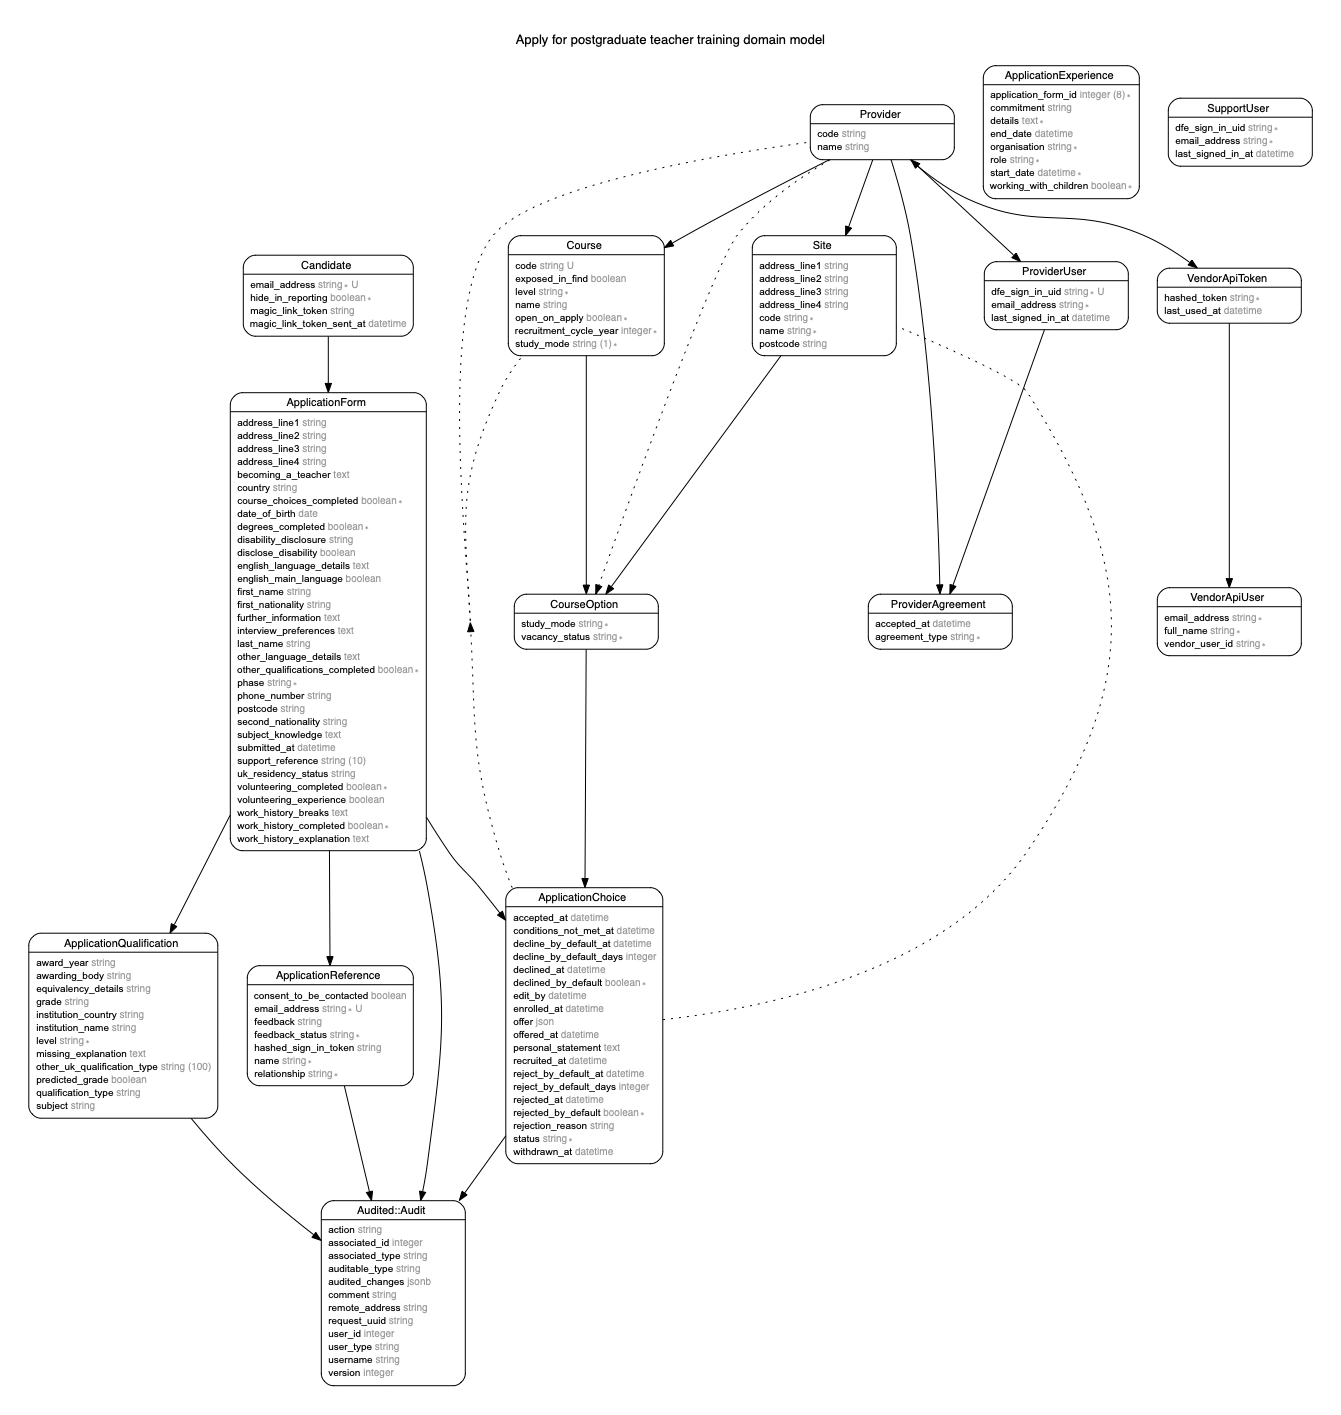
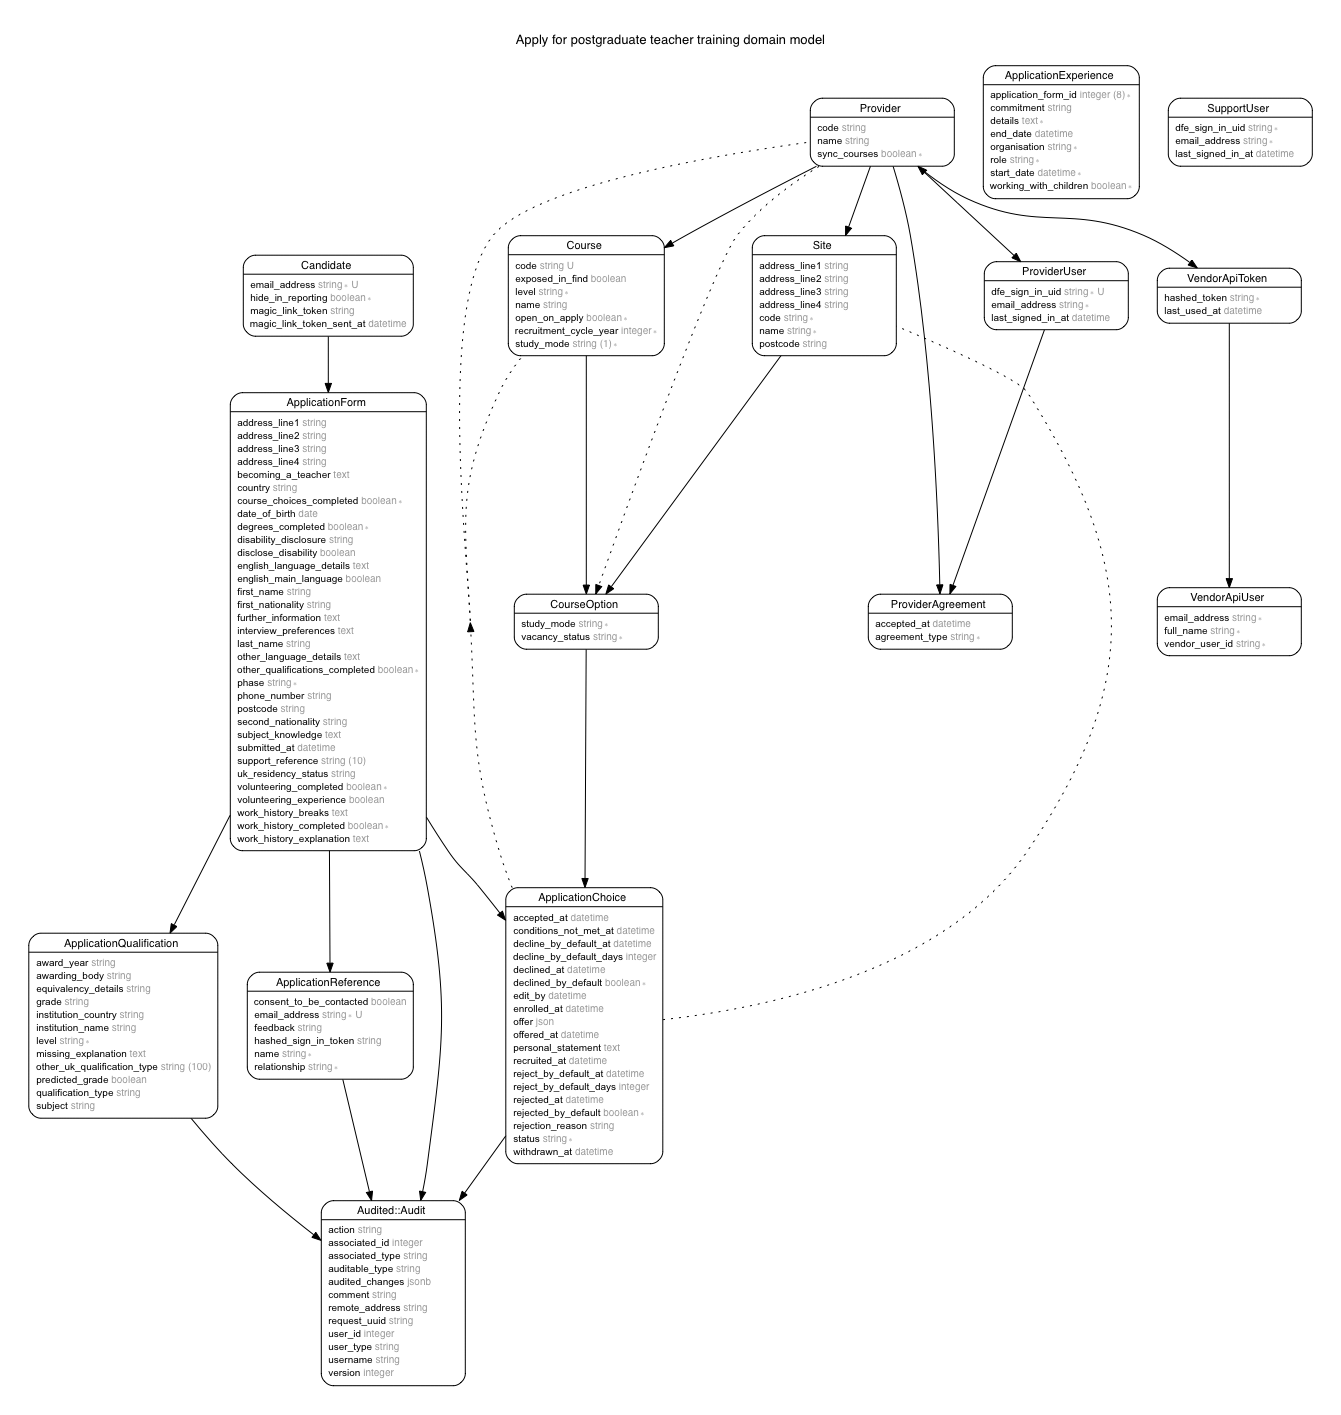
Migration to add providers.sync_courses column
Set this to true only for providers that already have courses on the
grounds that we must have been syncing these ones in the past.

Changed region(s): [[0.1834, 0.6841, 0.3057, 0.7774], [0.6115, 0.0622, 0.7032, 0.1244]]

diff --git a/db/schema.rb b/db/schema.rb
@@ -33,9 +33,9 @@ ActiveRecord::Schema.define(version: 2020_01_10_071407) do
     t.integer "decline_by_default_days"
     t.datetime "offered_at"
     t.datetime "rejected_at"
-    t.datetime "withdrawn_at"
     t.datetime "declined_at"
     t.boolean "declined_by_default", default: false, null: false
+    t.datetime "withdrawn_at"
     t.integer "offered_course_option_id"
     t.datetime "accepted_at"
     t.datetime "recruited_at"
@@ -215,6 +215,7 @@ ActiveRecord::Schema.define(version: 2020_01_10_071407) do
     t.string "code"
     t.datetime "created_at", precision: 6, null: false
     t.datetime "updated_at", precision: 6, null: false
+    t.boolean "sync_courses", default: false, null: false
     t.index ["code"], name: "index_providers_on_code", unique: true
   end
 

diff --git a/db/migrate/20200108111049_add_provider_sync_courses.rb b/db/migrate/20200108111049_add_provider_sync_courses.rb
@@ -1,0 +1,8 @@
+class AddProviderSyncCourses < ActiveRecord::Migration[6.0]
+  def change
+    add_column :providers, :sync_courses, :boolean, null: false, default: false
+    Provider.find_each do |provider|
+      provider.update(sync_courses: true) if provider.courses.count.positive?
+    end
+  end
+end
